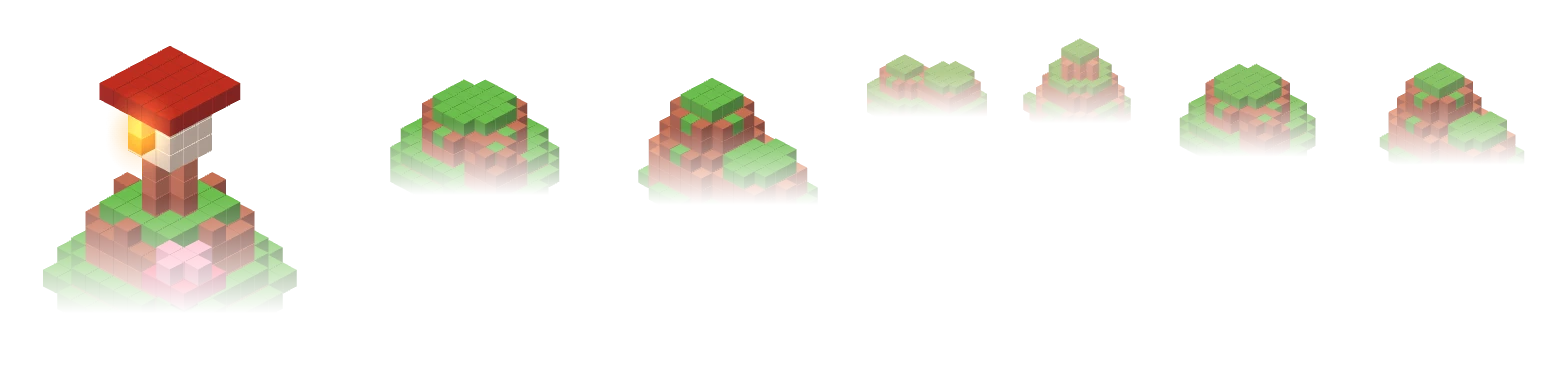
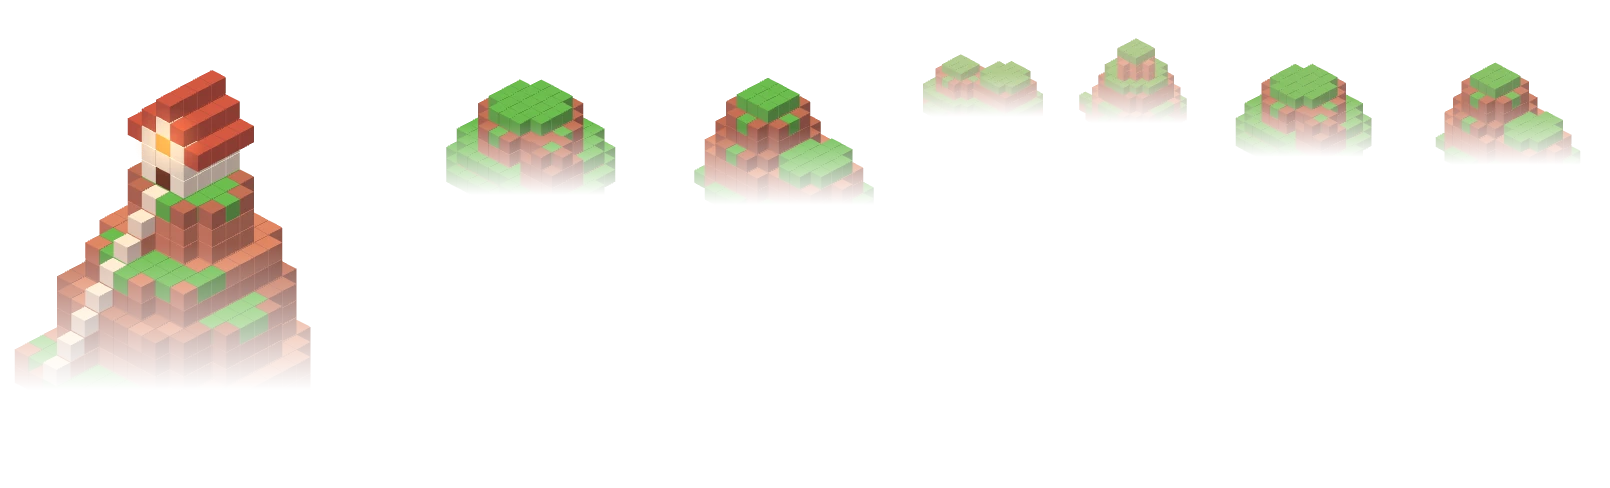
feat(map): First Light's home and its stair; every reached chapter shows its five mountains
First Light's summit is reworked: a cottage on stacked rock shelves, its
white gable and lit window to the viewer, and a pale stair from the door
down into the mist (chosen from four variants after an adversarial critique;
sheet in shots/first-light-summit-sheet.png, local).

A reached chapter now shows all five peaks in its atlas (sig, lf1, lf2,
far3, far4), up from 4, or 2 in every third chapter. The three added ones
are fitted along the chapter: whole box and mist inside the chapter, 40 px
off the trail, clear of stones, labels and the name. Chapters under mist
build as before.

Claude-Session: https://claude.ai/code/session_01RJB5cDdXvcLAwaz3VUAMoh

Changed region(s): [[0.556, 0.0612, 0.9884, 0.398], [0.2471, 0.1531, 0.556, 0.5204], [0.0, 0.1224, 0.2162, 0.7653]]

diff --git a/public/js/mapworld.js b/public/js/mapworld.js
@@ -200,6 +200,49 @@ export class MapWorld {
     return out;
   }
 
+  // a peak's box on the page: the sprite, and the mist band across its cut
+  box(r, key, x, z) {
+    const s = this.sprite(r, key);
+    if (!s) return null;
+    const top = z - s.h * s.ay, left = x - s.w * s.ax;
+    const cut = top + s.h * (1 - 0.5 * 0.55), bandH = Math.max(70, s.h * 0.5);
+    return { key, x, z, side: Math.sign(x), left, right: left + s.w, top, art: top + s.h * 0.8, bottom: Math.max(top + s.h, cut + bandH / 2) };
+  }
+  // where a peak fits in its chapter: at the edge on whichever side is free,
+  // its whole box (and its mist) inside the chapter, 40 px off the trail, clear
+  // of every stone, label and the chapter's name, not over another peak; of
+  // the places that fit, the one furthest from the peaks already there, so a
+  // chapter's five spread along its length
+  fit(r, key, placed) {
+    const s = this.sprite(r, key);
+    if (!s) return null;
+    const model = this.model, W2 = this.w / 2;
+    const stones = (model.stones ?? []).filter((n) => n.z > r.top - 80 && n.z < r.bottom + 80);
+    let best = null, bestScore = -1;
+    for (let z = r.labelZ + 60; z <= r.bottom; z += 10) {
+      for (const sd of [1, -1]) {
+        const x = sd * (key.startsWith('far') ? W2 - 40 : W2 - s.w * 0.12);
+        const b = this.box(r, key, x, z);
+        if (b.top < r.top + 8 || b.bottom > r.bottom - 8) continue;
+        if (b.top < r.labelZ + 50) continue;   // the chapter's name
+        const inner = sd > 0 ? b.left : b.right;
+        let ok = true;
+        for (let zz = b.top; zz <= b.art && ok; zz += 10) if (sd * (inner - model.trailX(zz)) < 40) ok = false;
+        for (const n of stones) {
+          if (!ok) break;
+          const lx0 = n.lbl > 0 ? n.x + 28 : n.x - 148, rects = [[n.x - 40, n.x + 40, n.z - 44, n.z + 44], [lx0, lx0 + 120, n.z - 30, n.z + 30]];
+          for (const [x0, x1, z0, z1] of rects) if (b.left < x1 && b.right > x0 && b.top < z1 && b.art > z0) ok = false;
+        }
+        for (const p of placed) if (ok && p && p.side === sd && b.top < p.art + 16 && b.art > p.top - 16) ok = false;
+        if (!ok) continue;
+        let score = Infinity;
+        for (const p of placed) if (p) score = Math.min(score, Math.abs(z - p.z) * (p.side === sd ? 1 : 1.5));
+        if (score > bestScore) { best = b; bestScore = score; }
+      }
+    }
+    return best;
+  }
+
   buildChunk(r) {
     const model = this.model, rand = rng(r.name + 'm');
     const mist = mistColour(r.base);
@@ -229,6 +272,7 @@ export class MapWorld {
       el.style.backgroundImage = `url(${s.file})`;
       el.style.backgroundSize = `${s.aw}px ${s.ah}px`;
       el.style.backgroundPosition = `${-s.x}px ${-s.y}px`;
+      el.dataset.key = key;
       place(layer, el, x, z, s.w, s.h, s.ax, s.ay, `peak ${cls}`);
       const cut = z - s.h * s.ay + s.h * (1 - FADE * 0.55);
       // soft, and never within 40 px of the trail
@@ -247,13 +291,28 @@ export class MapWorld {
       if (Math.sign(model.trailX(z)) === -side && Math.abs(model.trailX(z)) > 50) { zs = z + 60; break; }
     }
     if (sig) zs = Math.min(r.bottom - 60, Math.max(zs, r.labelZ + 90 + sig.h * sig.ay));
-    if (!r.folded) peak('far', -side * (W2 - 40), zs - 120, 'far3', 'distant');
-    if (!r.folded && r.index % 3 !== 2 && r.bottom - r.labelZ > 800) {
-      const z = Math.min(r.bottom - 160, r.labelZ + 700);
-      const x2 = model.trailX(z), sd = Math.abs(x2) > 30 ? -Math.sign(x2) : -side;
-      const lf = this.sprite(r, r.index % 2 ? 'lf2' : 'lf1');
-      if (lf) peak('near', sd * (W2 - lf.w * 0.12), z, r.index % 2 ? 'lf2' : 'lf1');
-      peak('far', -sd * (W2 - 40), z - 140, 'far4', 'distant');
+    if (r.bank) {
+      // under the mist (a chapter not yet reached, or lifting now): as it was
+      if (!r.folded) peak('far', -side * (W2 - 40), zs - 120, 'far3', 'distant');
+      if (!r.folded && r.index % 3 !== 2 && r.bottom - r.labelZ > 800) {
+        const z = Math.min(r.bottom - 160, r.labelZ + 700);
+        const x2 = model.trailX(z), sd = Math.abs(x2) > 30 ? -Math.sign(x2) : -side;
+        const lf = this.sprite(r, r.index % 2 ? 'lf2' : 'lf1');
+        if (lf) peak('near', sd * (W2 - lf.w * 0.12), z, r.index % 2 ? 'lf2' : 'lf1');
+        peak('far', -sd * (W2 - 40), z - 140, 'far4', 'distant');
+      }
+    } else {
+      // a reached chapter shows its whole range: the summit and the far peak
+      // where they always stood, then both landforms and the second far peak
+      // set along the chapter where they fit (scenery() below)
+      peak('far', -side * (W2 - 40), zs - 120, 'far3', 'distant');
+      if (sig) chunk.placed = [this.box(r, 'sig', side * (W2 - sig.w * 0.22), zs), this.box(r, 'far3', -side * (W2 - 40), zs - 120)];
+      for (const [key, layer, cls] of [['lf1', 'near', ''], ['lf2', 'near', ''], ['far4', 'far', 'distant']]) {
+        const at = this.fit(r, key, chunk.placed ?? []);
+        if (!at) continue;
+        peak(layer, at.x, at.z, key, cls);
+        (chunk.placed ??= []).push(at);
+      }
     }
     for (let z = r.top + 80; z < r.bottom; z += 260 + rand() * 120) {
       band('far', (rand() < 0.5 ? -1 : 1) * (250 + rand() * 60), z, 300, 70, 0.32, '', 6 + Math.floor(rand() * 4));

diff --git a/public/proto/peaks.js b/public/proto/peaks.js
@@ -46,7 +46,7 @@ function terrain(g, { peaks = [], spurs = [], rock, rock2, steps = STEPS, floor 
 const hAt = (g, x, z) => g.hf?.[Math.round(x) + g.X * Math.round(z)] ?? g.top(Math.round(x), Math.round(z)) + 1;
 
 // ground on ledges wide enough to stand on; risers and narrow rims stay rock
-function caps(g, ground, { snow, snowFrom = Infinity, ground2 } = {}) {
+function caps(g, ground, { snow, snowFrom = Infinity, ground2, minFlat = 2 } = {}) {
   const solid = (x, y, z) => !!g.get(x, y, z);
   for (let z = 0; z < g.Z; z++) for (let y = 0; y < g.Y; y++) for (let x = 0; x < g.X; x++) {
     if (!solid(x, y, z) || solid(x, y + 1, z)) continue;
@@ -55,7 +55,7 @@ function caps(g, ground, { snow, snowFrom = Infinity, ground2 } = {}) {
     let flat = 0;
     for (const [dx, dz] of [[1, 0], [-1, 0], [0, 1], [0, -1]]) if (solid(x + dx, y, z + dz) && !solid(x + dx, y + 1, z + dz)) flat++;
     if (y >= snowFrom) { g.set(x, y, z, snow); continue; }
-    if (flat >= 2 || y <= 1) g.set(x, y, z, ground);
+    if (flat >= minFlat || (minFlat <= 2 && y <= 1)) g.set(x, y, z, ground);
   }
 }
 // no needles, posts or strays: terrain cubes above the first two layers need a
@@ -75,6 +75,31 @@ function tidy(g) {
 function put(g, x, y, z, c, lit = false) {
   x = Math.round(x); y = Math.round(y); z = Math.round(z);
   g.set(x, y, z, c, lit); (g.struct ??= new Set()).add(x + g.X * (y + g.Y * z));
+}
+// no lone ground cubes (they read as moss stuck on a cliff)
+function despeckle(g, ground, rock) {
+  for (let z = 0; z < g.Z; z++) for (let y = 0; y < g.Y; y++) for (let x = 0; x < g.X; x++) {
+    if (g.get(x, y, z) !== ground) continue;
+    if (![[1, 0], [-1, 0], [0, 1], [0, -1]].some(([dx, dz]) => g.get(x + dx, y, z + dz) === ground)) g.set(x, y, z, rock);
+  }
+}
+// a cottage with its gable to the front-left (+z): walls wx by wz, two high;
+// the ridge runs along z, the roof overhangs one voxel at both eaves; the
+// front gable is white with the roof as its stepped rim, the door at its foot
+// and a lit window under the ridge, both on the centre line
+function cottage(g, x0, z0, wx, wz, y, { roof = 0xe39a84, roof2 = 0xd38a74, wall = 0xfbf3e6, door = 0xb08060, lamp = 0xffd58a } = {}) {
+  for (let k = 0; k < 2; k++) for (let dz = 0; dz < wz; dz++) for (let dx = 0; dx < wx; dx++) put(g, x0 + dx, y + k, z0 + dz, wall);
+  const zf = z0 + wz - 1, xm = x0 + (wx - 1) / 2;
+  for (let c = 0; ; c++) {
+    const xa = x0 - 1 + c, xb = x0 + wx - c;
+    if (xa > xb) break;
+    for (let x = xa; x <= xb; x++) for (let z = z0; z <= zf; z++) {
+      const rim = x === xa || x === xb;
+      put(g, x, y + 2 + c, z, z === zf && !rim ? wall : rim ? roof : roof2);
+    }
+  }
+  put(g, xm, y, zf, door);
+  put(g, xm, y + 2, zf, lamp, true);
 }
 function tree(g, x, z, trunk, leaf, leaf2) {   // seated on the ground where it stands
   const y = hAt(g, x, z);
@@ -192,16 +217,22 @@ const snowy = { Frost: 6 };
 
 // each biome's signature summit: one clear landmark on an offset summit, ~12 across
 const SIGNATURE = {
-  Dawn: (B) => { // a white sun shrine on a bare offset summit, its gold disc lit
-    const g = terrain(grid(13, 12, 12), { peaks: [{ x: 5, z: 5, h: 8, r: 6.5, p: 1.1 }], spurs: [{ x0: 5, z0: 5, x1: 11, z1: 9, h0: 5, h1: 2, w: 2.8 }], ...B });
-    caps(g, B.ground, B);
-    // a 3x3 shrine, three high, a stepped roof, its gold sun disc toward the light
-    const y = hAt(g, 5, 5);
-    for (let k = 0; k < 3; k++) for (let dz = -1; dz <= 1; dz++) for (let dx = -1; dx <= 1; dx++) put(g, 5 + dx, y + k, 5 + dz, 0xfbf3e6);
-    for (let dz = -2; dz <= 2; dz++) for (let dx = -2; dx <= 2; dx++) put(g, 5 + dx, y + 3, 5 + dz, 0xd9725e);
-    for (let dz = -1; dz <= 1; dz++) for (let dx = -1; dx <= 1; dx++) put(g, 5 + dx, y + 4, 5 + dz, 0xb85a4a);
-    put(g, 5, y + 1, 7, 0xffcf6a, true); put(g, 5, y + 2, 7, 0xffe39a, true);
-    tree(g, 9, 8, 0x8a5a3c, 0xf4a3b5, 0xfcd0da);
+  Dawn: (B) => { // the home you set out from: a cottage on stacked rock shelves, its window lit, a pale stair from its door down into the mist (round 4)
+    // three shelves stepping down toward the front-left, risers of two and three
+    const g = terrain(grid(13, 16, 16), {
+      peaks: [[10, 3.9], [7, 5.3], [4, 6.6]].map(([h, r], i) => ({ x: 3.5 + i * 0.4, z: 6.2 + i * 1.3, h, r, p: 0.06, n: 2.6, tip: r * 0.7 })),
+      steps: [2, 3, 2, 3], ...B,
+    });
+    const y = hAt(g, 3, 6);
+    caps(g, B.ground, { minFlat: 3 });
+    despeckle(g, B.ground, B.rock);
+    cottage(g, 2, 4, 3, 4, y);
+    // the stair: from the door's threshold, one down per step, carved into the shelves
+    for (let z = 8, h = y - 1; z < g.Z && h >= 0; z++, h--) {
+      for (let yy = h + 1; yy < g.Y; yy++) if (!g.struct?.has(3 + g.X * (yy + g.Y * z))) g.clear(3, yy, z);
+      for (let yy = 0; yy < h; yy++) if (!g.get(3, yy, z)) g.set(3, yy, z, Math.floor(yy / 3) % 2 ? B.rock2 : B.rock);
+      put(g, 3, h, z, 0xfbeee0);
+    }
     return g;
   },
   Teatime: (B) => { // a tea house on a butte: a mint roof, a window lit
@@ -354,3 +385,6 @@ export function peaksFor(p) {
     { kind: 'far', make: () => cap(fb(B, 2)) },
   ];
 }
+
+// the builders, for studies of new summits (shots/peaks-r4/variants.js)
+export { terrain, caps, tidy, put, hAt, tree };

diff --git a/public/js/map.js b/public/js/map.js
@@ -307,6 +307,8 @@ export function renderMap(root, opts) {
           shrine: r.shrine ? { x: r.shrine.x - cx, z: headH + r.shrine.y } : null,
         })),
         trailX: (z) => trailX(z - headH) - cx,
+        // the stones and their labels, for keeping scenery off them (a label sits on the side toward the centre)
+        stones: nodes.filter((n) => n.kind !== 'drift').map((n) => ({ x: n.x - cx, z: headH + n.y, lbl: n.x > x0 + colW / 2 ? -1 : 1 })),
         driftTop: headH + driftTop, end: headH + height,
       });
       mark('map: world built');

diff --git a/docs/map-study.md b/docs/map-study.md
@@ -96,6 +96,56 @@ During a fling, the world gets 0 style writes from script (387 before). The gap 
 
 **Still open:** the phone's GPU and real touch momentum, and tuning the shrine bell by ear.
 
+## Round 4: First Light's summit, and every chapter's full range (2026-10-19)
+
+**Kellan:** rework First Light's red-roofed mountain to make it more beautiful, and show the approved prototype's ~5 mountains per chapter on the unlocked map. (Kellan's third ask, chapters' mountains showing in other chapters, went away once parallax was turned off. Existing peaks were not moved.)
+
+**First Light's summit** (`SIGNATURE.Dawn` in `public/proto/peaks.js`; the study is in `shots/peaks-r4/`, with the sheet at `shots/first-light-summit-sheet.png`).
+- **The old one:** a flat red slab roof on a thin stilt, a lamp on one side only, and pink noise at the foot. At thumbnail size it read as a red table on a bump.
+- **Four variants on one new mountain,** each with one idea:
+  - A: chimney smoke;
+  - B: a stair from the door down into the mist;
+  - C: a blossom tree;
+  - D: a waterfall.
+
+  The mountain itself is three rock shelves stepping down toward the front-left, with risers of 2–3 voxels and grass only on ledges wide enough to stand on. The cottage turns its white gable to the viewer, with the door and the lit window on its centre line. Every variant was rendered on the export page (the game page's own cubes state tints renders) and placed on the real map at 390×820.
+- **A fresh critic** ranked them B, A, old, C, D:
+  - smoke as still cubes reads as stray floating blocks;
+  - the tree is a second loud focal point;
+  - the cyan water is out of palette and reads as a glitch.
+- **B ships:** the home you set out from at dawn, its path starting at the door and walking down into the mist toward the trail of stones. The critic's fixes are in:
+  - a one-wide stair carved into the rock (rise 1, run 1), with the threshold at the door;
+  - a calmer terracotta roof (lit face about #d45940 on the map, was about #c8302a);
+  - a lighter door, so it is no longer the darkest value on the map;
+  - no lone grass cubes;
+  - the art moved left in its grid, so the map's edge crops rock rather than the house.
+- **Size:** the sprite is 205×244 (was 177×196). `dawn.webp` is 38 KB (was 35 KB). The other 15 atlases re-render byte-identical.
+
+**The full range on every reached chapter** (`mapworld.js`, `fit()` and `box()`):
+
+| Before | After |
+|---|---|
+| A reached chapter showed `sig` + `far3`, plus `lf1` or `lf2` + `far4` only when `index % 3 !== 2` and longer than 800 px: 4, or 2 in every third chapter (50 peaks with everything unlocked). | Every reached chapter shows all five distinct shapes in its atlas: `sig`, `lf1`, `lf2`, `far3`, `far4` (75 peaks). |
+
+- **What the atlas holds.** Each palette has seven sprites: `sig`, `lf1`, `lf2`, `far3`, `far4`, and `ghost1` and `ghost2`, which are `lf1` and `lf2` re-rendered pale for the locked wall. That makes five distinct mountains.
+- **Placement.**
+  - `sig` and `far3` stay where they always stood.
+  - `lf1`, `lf2` and `far4` are each placed at the screen edge, at the place in the chapter furthest from the peaks already there, so the five spread along its length on alternating sides.
+  - A place only counts if the peak's whole box, including its mist band, lies inside the chapter, its art stays 40 px off the trail, it clears every stone, label (map.js now passes `stones` to the world) and the chapter's name, and it doesn't sit over another peak on the same side.
+- **Unchanged:** chapters under mist (locked, folded, or lifting this session) build exactly as before.
+
+**Checks** (`shots/peaks-r4/probe.mjs` with unlock-all, a fresh save and 40 solved; `perf.mjs`):
+- Every reached chapter has 5 peaks.
+- Every added peak lies within its chapter's band: 0 outside, across all three saves.
+- Each added peak's art was tested against the real DOM rects of stones, labels and names: 0 overlaps.
+- No page errors at boot, and `npm test` passes 23 of 23.
+- **Fling** (CPU ×4, 390×820 @3x, unlock-all, 3×3000 px wheel flings, 3 runs):
+  - median frame 33.4 ms both before and after;
+  - 24.7 fps after against 26.2 before, from the 25 more sprites and mist bands;
+  - 0 script style writes to the world during the flings.
+
+  The layers, the content-visibility bands and the no-parallax setting are unchanged.
+
 ## Round 3: mist, and mountain tops (2026-10-19)
 
 **Kellan:**
